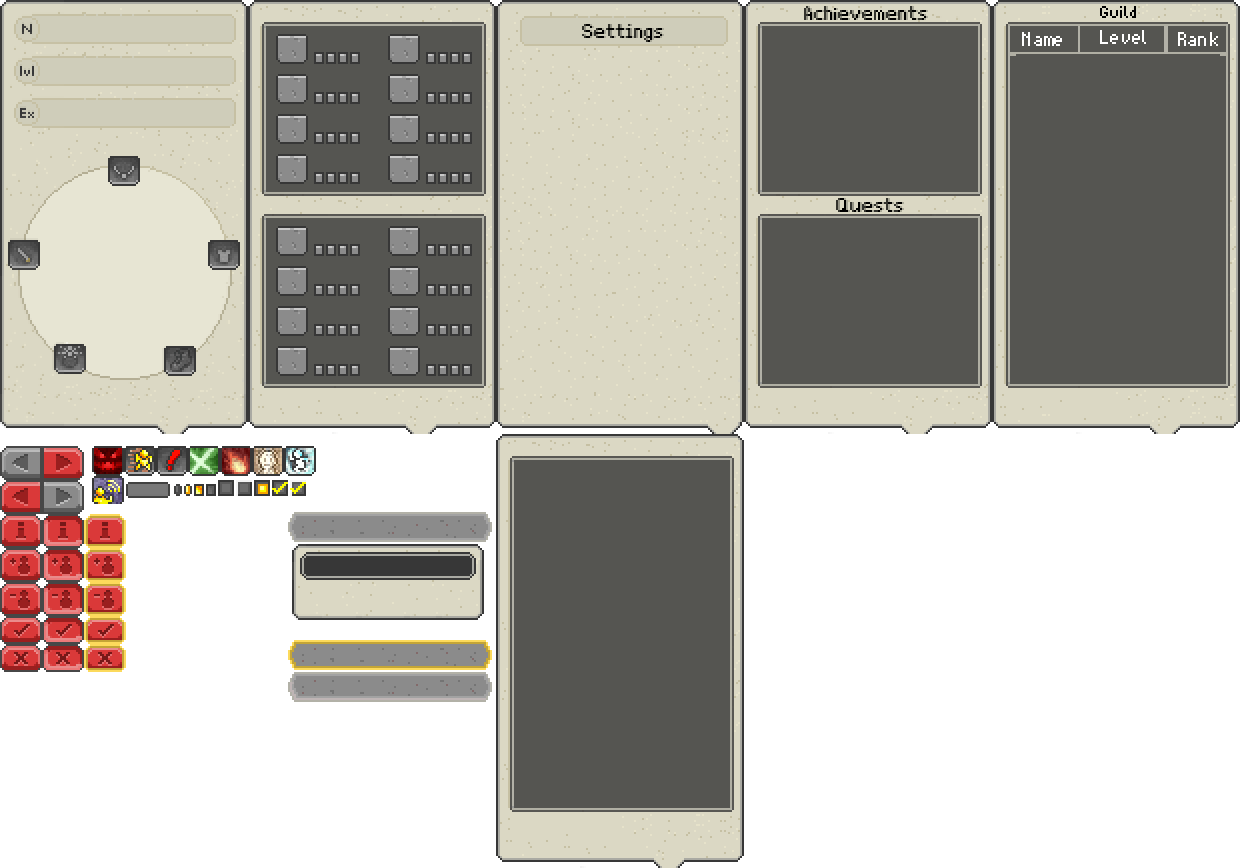
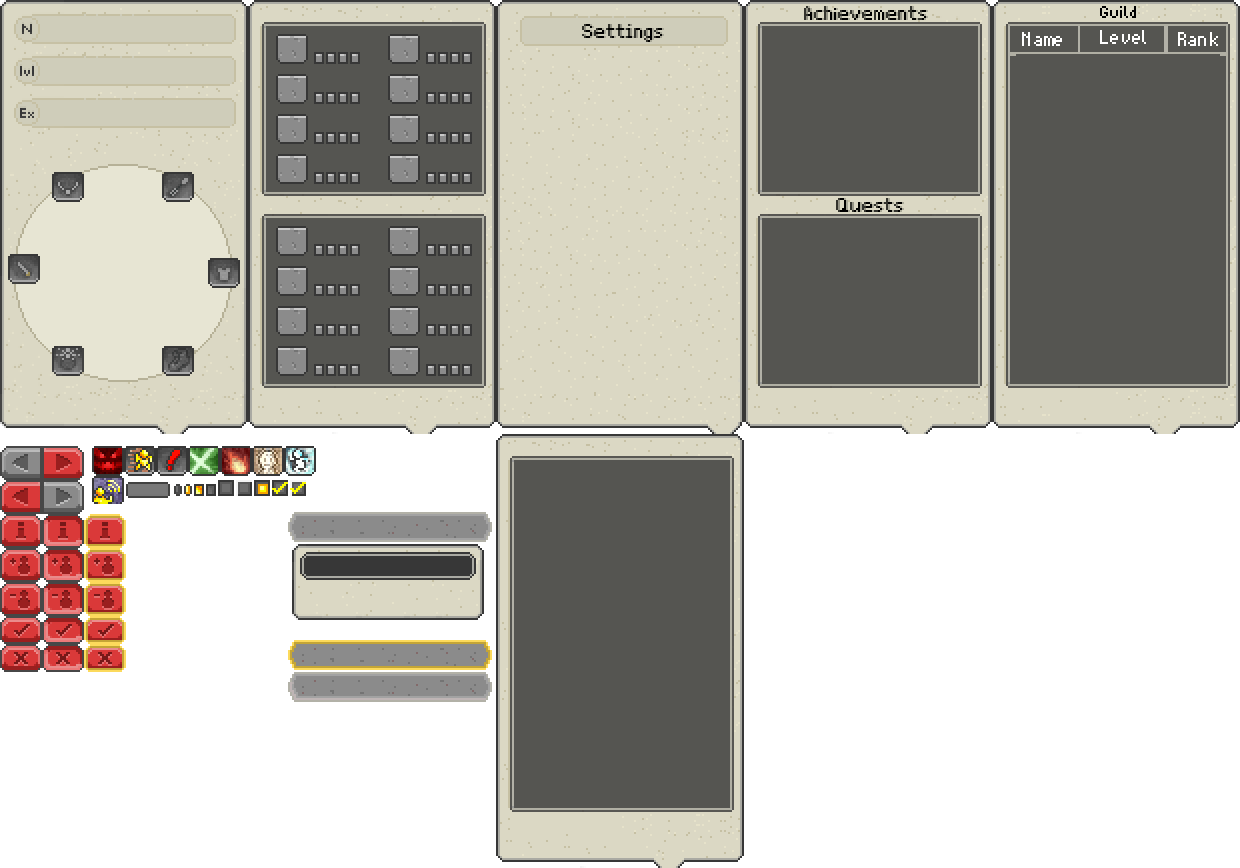
feat: add arrows equipment

diff --git a/packages/client/src/menu/equipments.ts b/packages/client/src/menu/equipments.ts
@@ -23,6 +23,10 @@ export default class Equipments extends Menu {
     private pendant: HTMLElement = document.querySelector('#equipment-container > .pendant-slot')!;
     private ring: HTMLElement = document.querySelector('#equipment-container > .ring-slot')!;
     private boots: HTMLElement = document.querySelector('#equipment-container > .boots-slot')!;
+    private arrow: HTMLElement = document.querySelector('#equipment-container > .arrows-slot')!;
+
+    // Counts
+    private arrowsCount: HTMLElement = document.querySelector('#arrows-count')!;
 
     // Navigation elements
     private previous: HTMLElement = document.querySelector('#player-image-navigator > .previous')!;
@@ -57,6 +61,7 @@ export default class Equipments extends Menu {
         );
         this.ring.addEventListener('click', () => this.selectCallback?.(Modules.Equipment.Ring));
         this.boots.addEventListener('click', () => this.selectCallback?.(Modules.Equipment.Boots));
+        this.arrow.addEventListener('click', () => this.selectCallback?.(Modules.Equipment.Arrows));
     }
 
     /**
@@ -76,6 +81,12 @@ export default class Equipments extends Menu {
         this.pendant.style.backgroundImage = Util.getImageURL(this.player.getPendant().key);
         this.ring.style.backgroundImage = Util.getImageURL(this.player.getRing().key);
         this.boots.style.backgroundImage = Util.getImageURL(this.player.getBoots().key);
+        this.arrow.style.backgroundImage = Util.getImageURL(this.player.getArrows().key);
+
+        // Synchronize arrow count
+        let arrowCount = this.player.getArrows().count;
+
+        this.arrowsCount.innerHTML = arrowCount < 1 ? '' : `+${arrowCount}`;
     }
 
     /**

diff --git a/packages/server/src/game/entity/character/player/equipments.ts b/packages/server/src/game/entity/character/player/equipments.ts
@@ -3,6 +3,7 @@ import Boots from './equipment/impl/boots';
 import Pendant from './equipment/impl/pendant';
 import Ring from './equipment/impl/ring';
 import Weapon from './equipment/impl/weapon';
+import Arrows from './equipment/impl/arrows';
 
 import Item from '../../objects/item';
 
@@ -22,6 +23,7 @@ export default class Equipments {
     private pendant: Pendant = new Pendant();
     private ring: Ring = new Ring();
     private weapon: Weapon = new Weapon();
+    private arrows: Arrows = new Arrows();
 
     // Store all equipments for parsing.
     // Make sure these are in the order of the enum.
@@ -30,7 +32,8 @@ export default class Equipments {
         this.boots,
         this.pendant,
         this.ring,
-        this.weapon
+        this.weapon,
+        this.arrows
     ];
 
     public totalAttackStats: Stats = Utils.getEmptyStats();
@@ -72,7 +75,10 @@ export default class Equipments {
      */
 
     public equip(item: Item): void {
-        if (!item) return log.warning('Tried to equip something mysterious.');
+        if (!item)
+            return log.warning(
+                `[${this.player.username}] Attempted to equip something mysterious.`
+            );
 
         let type = item.getEquipmentType(),
             equipment = this.getEquipment(type);

diff --git a/packages/client/index.html b/packages/client/index.html
@@ -596,8 +596,11 @@
                         <div class="profile-slot weapon-slot"></div>
                         <div class="profile-slot armour-slot"></div>
                         <div class="profile-slot pendant-slot"></div>
-                        <div class="ring-slot profile-slot"></div>
+                        <div class="profile-slot ring-slot"></div>
                         <div class="profile-slot boots-slot"></div>
+                        <div class="profile-slot arrows-slot">
+                            <div id="arrows-count" class="stroke">10</div>
+                        </div>
                         <div id="equipment-button"></div>
                     </div>
 
@@ -820,8 +823,9 @@
                             <div class="profile-slot weapon-slot"></div>
                             <div class="profile-slot armour-slot"></div>
                             <div class="profile-slot pendant-slot"></div>
-                            <div class="ring-slot profile-slot"></div>
+                            <div class="profile-slot ring-slot"></div>
                             <div class="profile-slot boots-slot"></div>
+                            <div class="profile-slot arrows-slot"></div>
                         </div>
                     </div>
 

diff --git a/packages/client/src/menu/profile/impl/state.ts b/packages/client/src/menu/profile/impl/state.ts
@@ -19,6 +19,7 @@ export default class State extends Menu {
     private pendant: HTMLElement = document.querySelector('#state-page > .pendant-slot')!;
     private ring: HTMLElement = document.querySelector('#state-page > .ring-slot')!;
     private boots: HTMLElement = document.querySelector('#state-page > .boots-slot')!;
+    private arrow: HTMLElement = document.querySelector('#state-page > .arrows-slot')!;
 
     private selectCallback?: SelectCallback;
 
@@ -36,6 +37,7 @@ export default class State extends Menu {
         );
         this.ring.addEventListener('click', () => this.selectCallback?.(Modules.Equipment.Ring));
         this.boots.addEventListener('click', () => this.selectCallback?.(Modules.Equipment.Boots));
+        this.arrow.addEventListener('click', () => this.selectCallback?.(Modules.Equipment.Arrows));
     }
 
     /**
@@ -60,6 +62,7 @@ export default class State extends Menu {
         this.pendant.style.backgroundImage = Util.getImageURL(player.getPendant().key);
         this.ring.style.backgroundImage = Util.getImageURL(player.getRing().key);
         this.boots.style.backgroundImage = Util.getImageURL(player.getBoots().key);
+        this.arrow.style.backgroundImage = Util.getImageURL(player.getArrows().key);
     }
 
     /**

diff --git a/packages/client/scss/game/impl/_profile.scss b/packages/client/scss/game/impl/_profile.scss
@@ -76,6 +76,13 @@
     left: 37%;
 }
 
+#arrows-count {
+    position: absolute;
+    font-family: AdvoCut, sans-serif;
+    color: white;
+    text-align: center;
+}
+
 @each $size, $i in media.$sizes {
     @media ($size) {
         #state-page,
@@ -162,24 +169,25 @@
         .armour-slot,
         .pendant-slot,
         .ring-slot,
-        .boots-slot {
+        .boots-slot,
+        .arrows-slot {
             margin-top: -2px * $i;
             background-size: cover;
         }
 
         .weapon-slot {
-            top: 120px * $i;
+            top: 128px * $i;
             left: 4px * $i;
         }
 
         .armour-slot {
-            top: 119px * $i;
+            top: 130px * $i;
             left: 104px * $i;
         }
 
         .pendant-slot {
-            top: 78px * $i;
-            left: 54px * $i;
+            top: 88px * $i;
+            left: 26px * $i;
         }
 
         .ring-slot {
@@ -190,6 +198,16 @@
         .boots-slot {
             top: 173px * $i;
             left: 82px * $i;
+        }
+        
+        .arrows-slot {
+            top: 87px * $i;
+            left: 81px * $i;
+        }
+
+        #arrows-count {
+            top: 18px * $i;
+            left: 2px * $i;
         }
 
         #profile-name {

diff --git a/packages/client/src/entity/character/player/player.ts b/packages/client/src/entity/character/player/player.ts
@@ -7,6 +7,7 @@ import Boots from './equipment/boots';
 import Pendant from './equipment/pendant';
 import Ring from './equipment/ring';
 import Weapon from './equipment/weapon';
+import Arrows from './equipment/arrows';
 
 import Character from '../character';
 
@@ -54,7 +55,8 @@ export default class Player extends Character {
         [Modules.Equipment.Boots]: new Boots(),
         [Modules.Equipment.Pendant]: new Pendant(),
         [Modules.Equipment.Ring]: new Ring(),
-        [Modules.Equipment.Weapon]: new Weapon()
+        [Modules.Equipment.Weapon]: new Weapon(),
+        [Modules.Equipment.Arrows]: new Arrows()
     };
 
     public skills: { [key: number]: Skill } = {};
@@ -258,6 +260,14 @@ export default class Player extends Character {
 
     public getBoots(): Boots {
         return this.equipments[Modules.Equipment.Boots];
+    }
+
+    /**
+     * @returns The arrows object of the player.
+     */
+
+    public getArrows(): Arrows {
+        return this.equipments[Modules.Equipment.Arrows];
     }
 
     /**

diff --git a/packages/server/src/game/entity/objects/item.ts b/packages/server/src/game/entity/objects/item.ts
@@ -205,6 +205,10 @@ export default class Item extends Entity {
             case 'ring': {
                 return Modules.Equipment.Ring;
             }
+
+            case 'arrow': {
+                return Modules.Equipment.Arrows;
+            }
         }
 
         return -1;
@@ -313,7 +317,8 @@ export default class Item extends Entity {
             this.itemType === 'weaponarcher' ||
             this.itemType === 'pendant' ||
             this.itemType === 'boots' ||
-            this.itemType === 'ring'
+            this.itemType === 'ring' ||
+            this.itemType === 'arrow'
         );
     }
 

diff --git a/packages/server/src/game/entity/character/player/equipment/impl/arrows.ts b/packages/server/src/game/entity/character/player/equipment/impl/arrows.ts
@@ -1,0 +1,20 @@
+import Equipment from '../equipment';
+
+import { Modules } from '@kaetram/common/network';
+
+import type { Enchantments } from '@kaetram/common/types/item';
+import type Item from '../../../../objects/item';
+
+export default class Arrows extends Equipment {
+    public constructor(key = '', count = -1, enchantments: Enchantments = {}) {
+        super(Modules.Equipment.Arrows, key, count, enchantments);
+    }
+
+    /**
+     * Override function that adds the equipment's power level.
+     */
+
+    public override update(item: Item): void {
+        super.update(item);
+    }
+}

diff --git a/packages/server/src/game/entity/character/player/equipment/equipment.ts b/packages/server/src/game/entity/character/player/equipment/equipment.ts
@@ -40,10 +40,10 @@ export default class Equipment {
      * @param item Item instance used to update the slot with.
      */
 
-    public update(item: Item, count = 1): void {
+    public update(item: Item): void {
         this.key = item.key;
         this.name = item.name;
-        this.count = count;
+        this.count = item.count;
         this.enchantments = item.enchantments;
 
         this.lumberjacking = item.lumberjacking;

diff --git a/packages/server/src/game/entity/character/player/player.ts b/packages/server/src/game/entity/character/player/player.ts
@@ -572,7 +572,7 @@ export default class Player extends Character {
                 }
 
                 if (item.isEquippable() && item.canEquip(this)) {
-                    this.inventory.remove(index);
+                    this.inventory.remove(index, item.count);
                     this.equipment.equip(item);
                 }
 

diff --git a/packages/common/network/modules.ts b/packages/common/network/modules.ts
@@ -98,7 +98,8 @@ export enum Equipment {
     Boots,
     Pendant,
     Ring,
-    Weapon
+    Weapon,
+    Arrows
 }
 
 export enum Hovering {

diff --git a/packages/client/src/entity/character/player/equipment/arrows.ts b/packages/client/src/entity/character/player/equipment/arrows.ts
@@ -1,0 +1,3 @@
+import Equipment from './equipment';
+
+export default class Arrows extends Equipment {}
